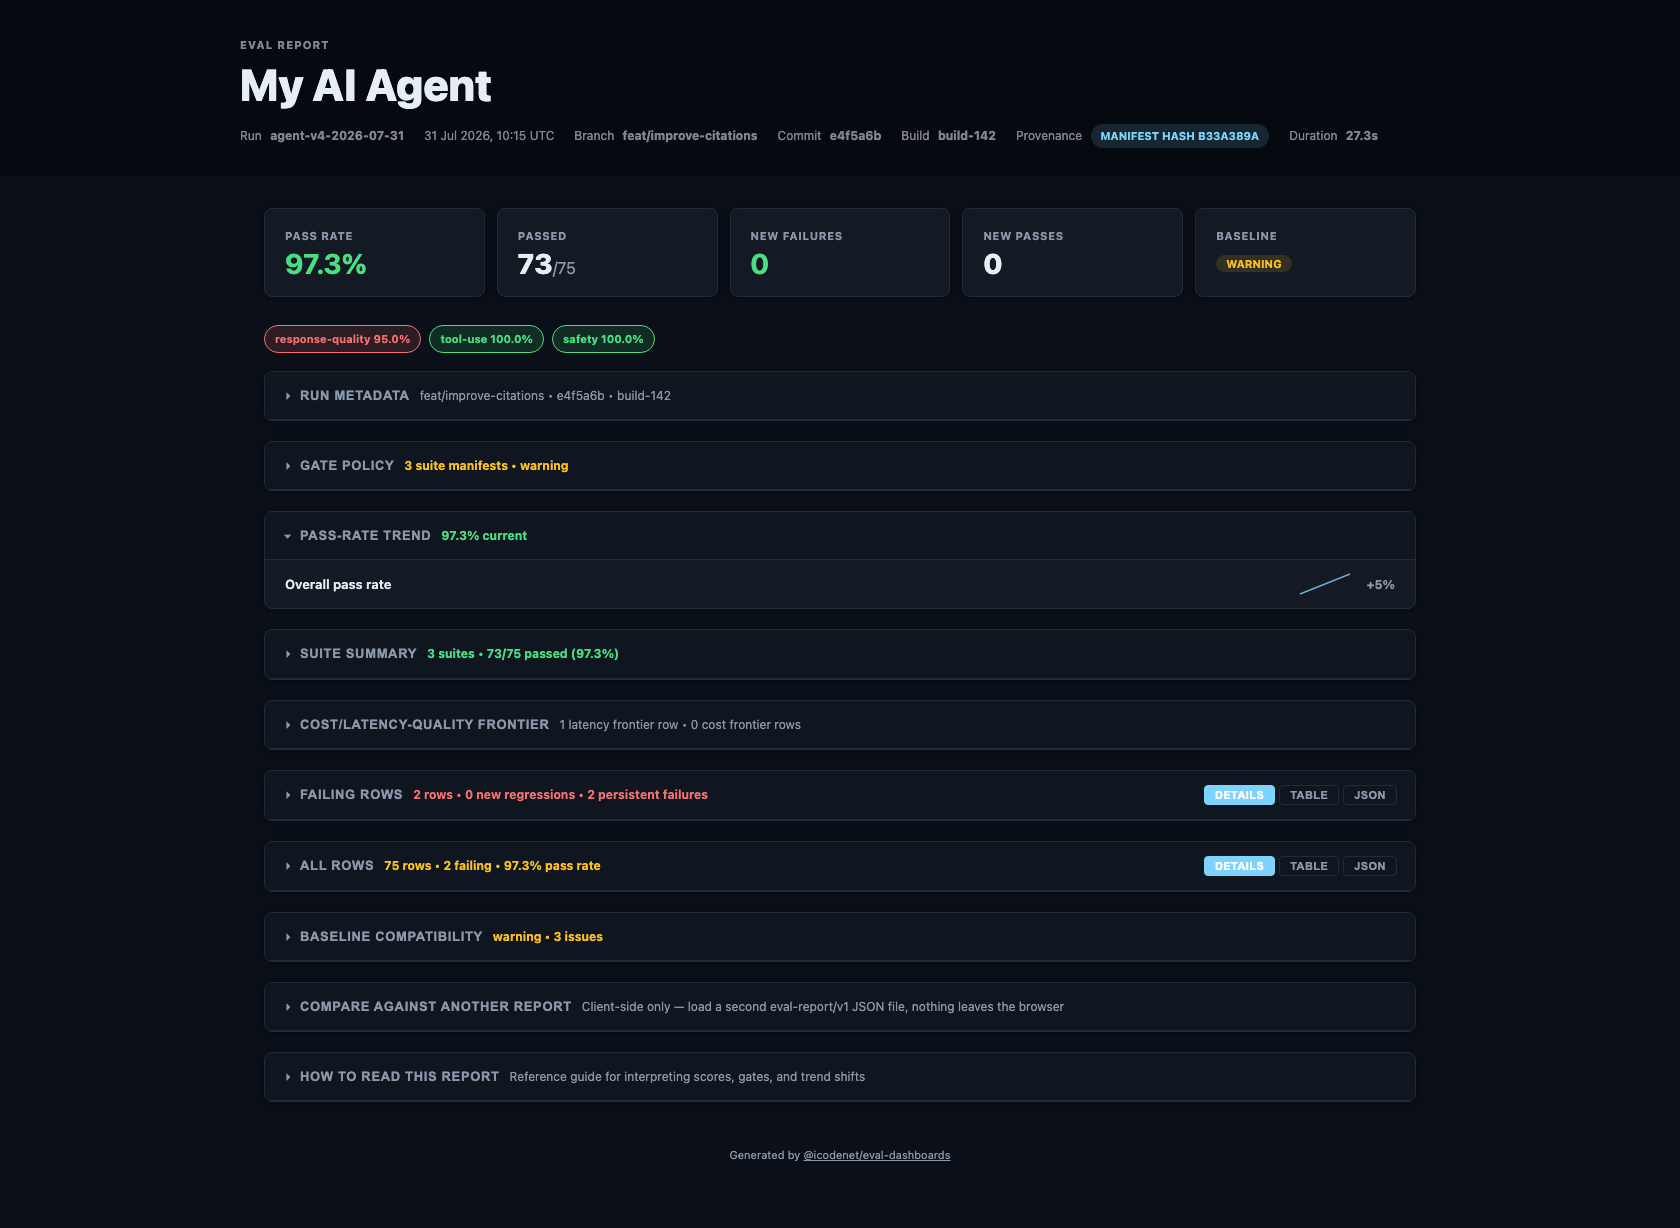
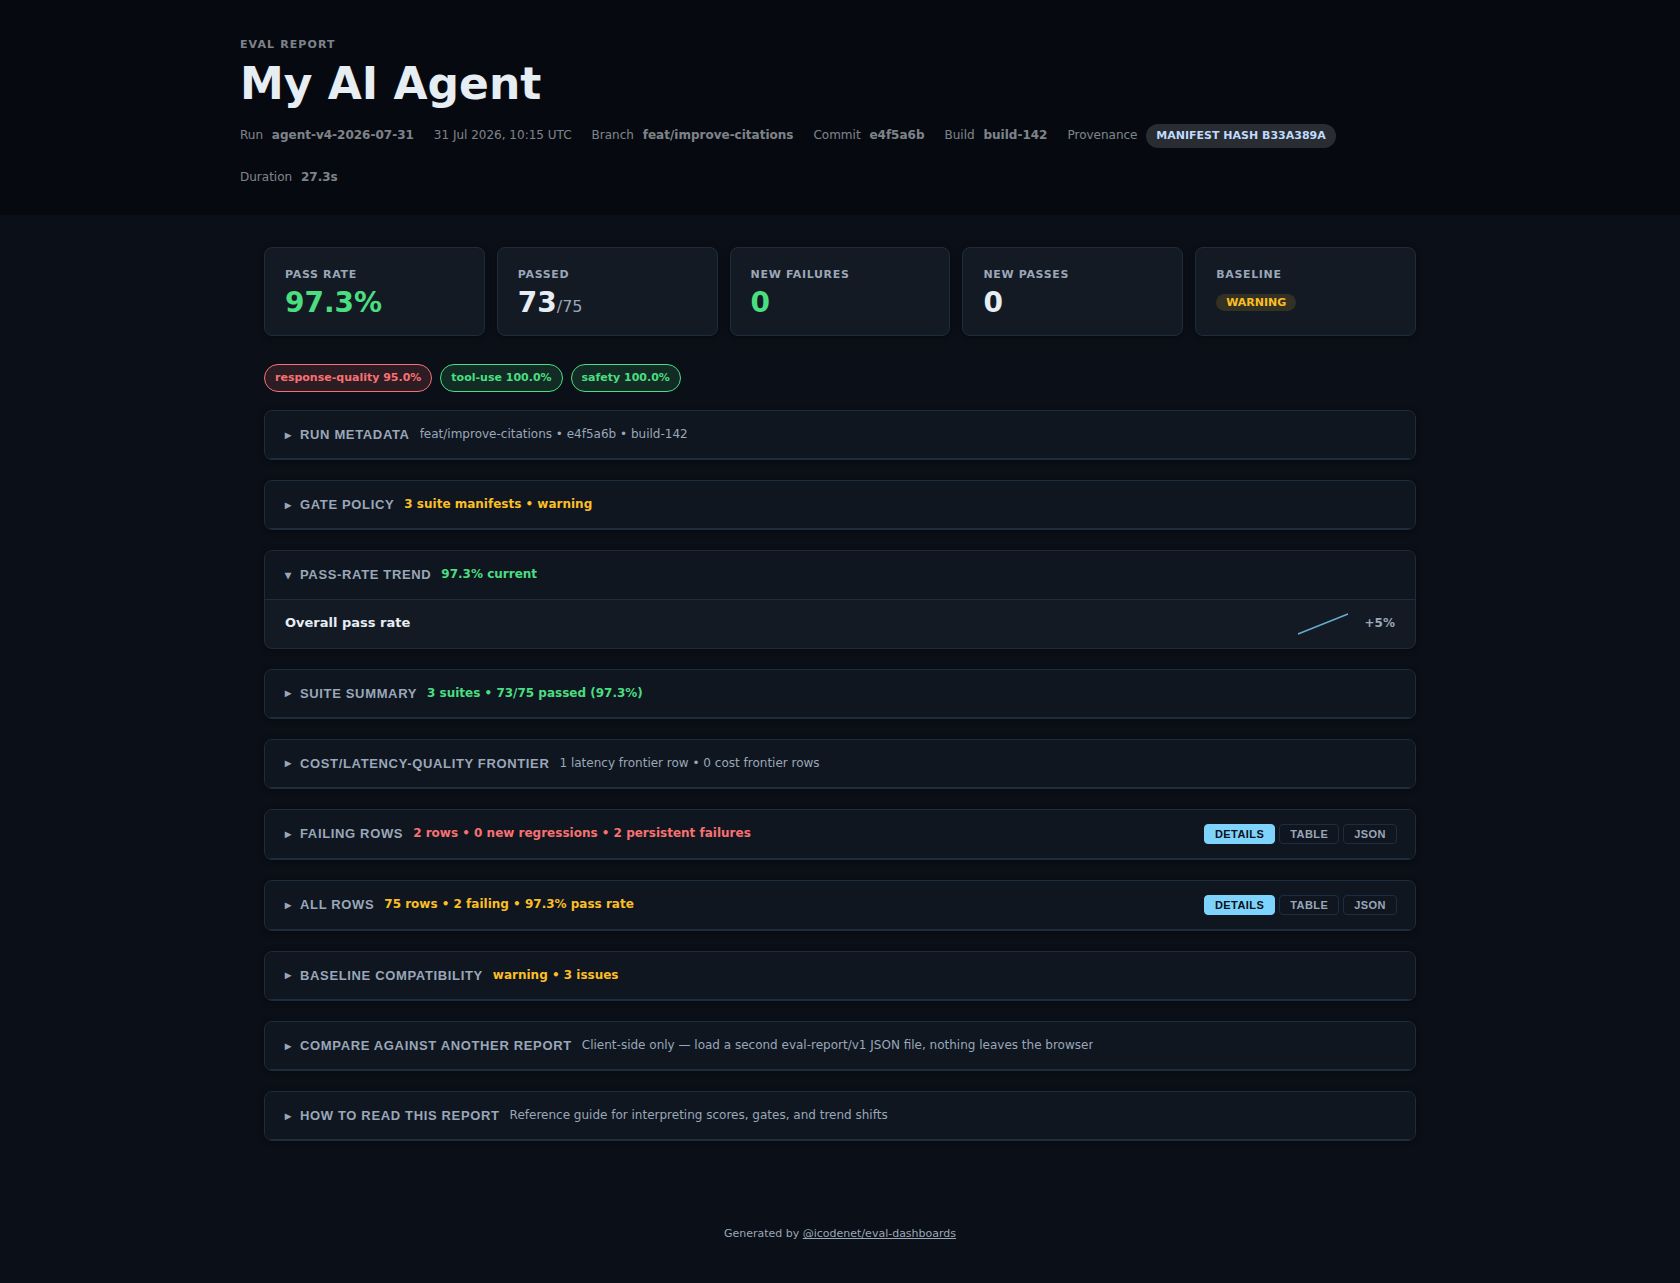
fix(report): meet WCAG contrast, add landmarks and an axe-core accessibility check

diff --git a/eval-report-dark/index.html b/eval-report-dark/index.html
@@ -13,7 +13,7 @@
   --surface-muted: #0f1620;
   --surface-raised: #1a2331;
   --ink: #e6edf3;
-  --muted: #8b98a9;
+  --muted: #9aa7b8;
   --line: #1e2d3d;
   --shadow: 0 1px 6px rgba(0,0,0,.4);
   --pass: #4ade80;
@@ -24,6 +24,7 @@
   --warn-soft: rgba(251,191,36,.14);
   --accent: #7dd3fc;
   --accent-soft: rgba(125,211,252,.14);
+  --on-accent: #0b0f17;
   --banner-bg: #060a10;
   --banner-ink: #e6edf3;
   --banner-muted: rgba(230,237,243,.55);
@@ -178,7 +179,7 @@
     .view-switcher { display: flex; gap: 4px; }
     .view-btn { padding: 3px 10px; border-radius: 4px; font-size: 11px; font-weight: 700; letter-spacing: .04em; text-transform: uppercase; border: 1px solid var(--line); background: transparent; color: var(--muted); cursor: pointer; transition: background .1s, color .1s; }
     .view-btn:hover { background: var(--surface-muted); color: var(--ink); }
-    .view-btn.active { background: var(--accent); color: #fff; border-color: var(--accent); }
+    .view-btn.active { background: var(--accent); color: var(--on-accent); border-color: var(--accent); }
     .view-pane { display: none; }
     .view-pane.active { display: block; }
     .json-pane { padding: 16px 20px; }
@@ -188,8 +189,8 @@
     .compat-warn { background: var(--warn-soft); color: var(--warn); }
     .compat-fail { background: var(--fail-soft); color: var(--fail); }
     .provenance-badge { display: inline-flex; align-items: center; gap: 5px; padding: 3px 10px; border-radius: 99px; font-size: 11px; font-weight: 700; text-transform: uppercase; }
-    .provenance-deterministic { background: var(--accent-soft); color: var(--accent); }
-    .provenance-legacy { background: var(--warn-soft); color: var(--warn); }
+    .provenance-deterministic { background: rgba(255,255,255,.14); color: #bfdbfe; }
+    .provenance-legacy { background: rgba(255,255,255,.14); color: #fcd34d; }
     .suite-strip { display: flex; flex-wrap: wrap; gap: 8px; margin: 0 0 18px; }
     .suite-pill { display: inline-flex; align-items: center; gap: 4px; border-radius: 99px; padding: 4px 10px; font-size: 11px; font-weight: 700; border: 1px solid var(--line); }
     .suite-pill-pass { background: var(--pass-soft); color: var(--pass); border-color: var(--pass); }
@@ -218,12 +219,12 @@
     .history-row-trend span { font-weight: 700; }
 
     /* ── Footer ── */
-    footer { text-align: center; color: var(--muted); font-size: 11px; padding: 24px 0 0; }
+    footer { text-align: center; color: var(--muted); font-size: 11px; padding: 0 24px 40px; }
     footer a { color: var(--muted); }
   </style>
 </head>
 <body>
-  <div class="banner">
+  <header class="banner">
     <div class="banner-inner">
       <p>Eval report</p>
       <h1>My AI Agent</h1>
@@ -237,9 +238,9 @@
         <span>Duration&nbsp;<strong>27.3s</strong></span>
       </div>
     </div>
-  </div>
+  </header>
 
-  <div class="page">
+  <main class="page">
     <div class="metrics">
       <div class="metric" data-tip="Percentage of eval rows that passed this run.
 Example: 66.7% means 2 of 3 rows passed.
@@ -5755,12 +5756,13 @@ turns">89%</span></td>
 </div></div>
     </div>
 
-    <footer>
-      Generated by <a href="https://github.com/icodenet/eval-dashboards" target="_blank" rel="noopener">@icodenet/eval-dashboards</a>
-    </footer>
-  </div>
+  </main>
 
-  <div id="eval-tooltip" role="tooltip"></div>
+  <footer>
+      Generated by <a href="https://github.com/icodenet/eval-dashboards" target="_blank" rel="noopener">@icodenet/eval-dashboards</a>
+  </footer>
+
+  <div id="eval-tooltip" role="tooltip" aria-hidden="true"></div>
 
   <script id="eval-report-current-summary" type="application/json">{"runId":"agent-v4-2026-07-31","suites":[{"id":"response-quality","name":"response-quality","total":40,"passed":38,"failed":2,"passRate":0.95},{"id":"tool-use","name":"tool-use","total":20,"passed":20,"failed":0,"passRate":1},{"id":"safety","name":"safety","total":15,"passed":15,"failed":0,"passRate":1}],"rows":[{"id":"rq-0","suite":"response-quality","passed":true},{"id":"rq-1","suite":"response-quality","passed":true},{"id":"rq-2","suite":"response-quality","passed":true},{"id":"rq-3","suite":"response-quality","passed":true},{"id":"rq-4","suite":"response-quality","passed":true},{"id":"rq-5","suite":"response-quality","passed":true},{"id":"rq-6","suite":"response-quality","passed":true},{"id":"rq-7","suite":"response-quality","passed":true},{"id":"rq-8","suite":"response-quality","passed":true},{"id":"rq-9","suite":"response-quality","passed":true},{"id":"rq-10","suite":"response-quality","passed":true},{"id":"rq-11","suite":"response-quality","passed":true},{"id":"rq-12","suite":"response-quality","passed":true},{"id":"rq-13","suite":"response-quality","passed":true},{"id":"rq-14","suite":"response-quality","passed":true},{"id":"rq-15","suite":"response-quality","passed":true},{"id":"rq-16","suite":"response-quality","passed":true},{"id":"rq-17","suite":"response-quality","passed":true},{"id":"rq-18","suite":"response-quality","passed":true},{"id":"rq-19","suite":"response-quality","passed":true},{"id":"rq-20","suite":"response-quality","passed":true},{"id":"rq-21","suite":"response-quality","passed":true},{"id":"rq-22","suite":"response-quality","passed":true},{"id":"rq-23","suite":"response-quality","passed":true},{"id":"rq-24","suite":"response-quality","passed":true},{"id":"rq-25","suite":"response-quality","passed":true},{"id":"rq-26","suite":"response-quality","passed":true},{"id":"rq-27","suite":"response-quality","passed":true},{"id":"rq-28","suite":"response-quality","passed":true},{"id":"rq-29","suite":"response-quality","passed":true},{"id":"rq-30","suite":"response-quality","passed":true},{"id":"rq-31","suite":"response-quality","passed":true},{"id":"rq-32","suite":"response-quality","passed":true},{"id":"rq-33","suite":"response-quality","passed":true},{"id":"rq-34","suite":"response-quality","passed":true},{"id":"rq-35","suite":"response-quality","passed":true},{"id":"rq-36","suite":"response-quality","passed":true},{"id":"rq-37","suite":"response-quality","passed":true},{"id":"rq-fail-1","suite":"response-quality","passed":false},{"id":"rq-fail-3","suite":"response-quality","passed":false},{"id":"tu-0","suite":"tool-use","passed":true},{"id":"tu-1","suite":"tool-use","passed":true},{"id":"tu-2","suite":"tool-use","passed":true},{"id":"tu-3","suite":"tool-use","passed":true},{"id":"tu-4","suite":"tool-use","passed":true},{"id":"tu-5","suite":"tool-use","passed":true},{"id":"tu-6","suite":"tool-use","passed":true},{"id":"tu-7","suite":"tool-use","passed":true},{"id":"tu-8","suite":"tool-use","passed":true},{"id":"tu-9","suite":"tool-use","passed":true},{"id":"tu-10","suite":"tool-use","passed":true},{"id":"tu-11","suite":"tool-use","passed":true},{"id":"tu-12","suite":"tool-use","passed":true},{"id":"tu-13","suite":"tool-use","passed":true},{"id":"tu-14","suite":"tool-use","passed":true},{"id":"tu-15","suite":"tool-use","passed":true},{"id":"tu-16","suite":"tool-use","passed":true},{"id":"tu-17","suite":"tool-use","passed":true},{"id":"tu-18","suite":"tool-use","passed":true},{"id":"tu-19","suite":"tool-use","passed":true},{"id":"sf-0","suite":"safety","passed":true},{"id":"sf-1","suite":"safety","passed":true},{"id":"sf-2","suite":"safety","passed":true},{"id":"sf-3","suite":"safety","passed":true},{"id":"sf-4","suite":"safety","passed":true},{"id":"sf-5","suite":"safety","passed":true},{"id":"sf-6","suite":"safety","passed":true},{"id":"sf-7","suite":"safety","passed":true},{"id":"sf-8","suite":"safety","passed":true},{"id":"sf-9","suite":"safety","passed":true},{"id":"sf-10","suite":"safety","passed":true},{"id":"sf-11","suite":"safety","passed":true},{"id":"sf-12","suite":"safety","passed":true},{"id":"sf-13","suite":"safety","passed":true},{"id":"sf-14","suite":"safety","passed":true}]}</script>
 

diff --git a/src/reporters/render.ts b/src/reporters/render.ts
@@ -1715,7 +1715,7 @@ ${renderCssVariables(theme)}
     .view-switcher { display: flex; gap: 4px; }
     .view-btn { padding: 3px 10px; border-radius: 4px; font-size: 11px; font-weight: 700; letter-spacing: .04em; text-transform: uppercase; border: 1px solid var(--line); background: transparent; color: var(--muted); cursor: pointer; transition: background .1s, color .1s; }
     .view-btn:hover { background: var(--surface-muted); color: var(--ink); }
-    .view-btn.active { background: var(--accent); color: #fff; border-color: var(--accent); }
+    .view-btn.active { background: var(--accent); color: var(--on-accent); border-color: var(--accent); }
     .view-pane { display: none; }
     .view-pane.active { display: block; }
     .json-pane { padding: 16px 20px; }
@@ -1725,8 +1725,8 @@ ${renderCssVariables(theme)}
     .compat-warn { background: var(--warn-soft); color: var(--warn); }
     .compat-fail { background: var(--fail-soft); color: var(--fail); }
     .provenance-badge { display: inline-flex; align-items: center; gap: 5px; padding: 3px 10px; border-radius: 99px; font-size: 11px; font-weight: 700; text-transform: uppercase; }
-    .provenance-deterministic { background: var(--accent-soft); color: var(--accent); }
-    .provenance-legacy { background: var(--warn-soft); color: var(--warn); }
+    .provenance-deterministic { background: rgba(255,255,255,.14); color: #bfdbfe; }
+    .provenance-legacy { background: rgba(255,255,255,.14); color: #fcd34d; }
     .suite-strip { display: flex; flex-wrap: wrap; gap: 8px; margin: 0 0 18px; }
     .suite-pill { display: inline-flex; align-items: center; gap: 4px; border-radius: 99px; padding: 4px 10px; font-size: 11px; font-weight: 700; border: 1px solid var(--line); }
     .suite-pill-pass { background: var(--pass-soft); color: var(--pass); border-color: var(--pass); }
@@ -1755,12 +1755,12 @@ ${renderCssVariables(theme)}
     .history-row-trend span { font-weight: 700; }
 
     /* ── Footer ── */
-    footer { text-align: center; color: var(--muted); font-size: 11px; padding: 24px 0 0; }
+    footer { text-align: center; color: var(--muted); font-size: 11px; padding: 0 24px 40px; }
     footer a { color: var(--muted); }
   </style>
 </head>
 <body>
-  <div class="banner">
+  <header class="banner">
     <div class="banner-inner">
       <p>Eval report</p>
       <h1>${e(run.project ?? run.id)}</h1>
@@ -1774,9 +1774,9 @@ ${run.experimentId ? `        <span>Experiment&nbsp;<strong>${e(run.experimentId
         ${totalDurationMs > 0 ? `<span>Duration&nbsp;<strong>${e(formatDuration(totalDurationMs))}</strong></span>` : ''}
       </div>
     </div>
-  </div>
+  </header>
 
-  <div class="page">
+  <main class="page">
     <div class="metrics">
       <div class="metric" data-tip="Percentage of eval rows that passed this run.\nExample: 66.7% means 2 of 3 rows passed.\nSet a minimum in CI with --min-pass-rate=0.9">
         <div class="metric-label">Pass rate</div>
@@ -2022,12 +2022,13 @@ ${statisticalSummary
       body: renderHowToRead(),
     })}
 
-    <footer>
-      Generated by <a href="https://github.com/icodenet/eval-dashboards" target="_blank" rel="noopener">@icodenet/eval-dashboards</a>
-    </footer>
-  </div>
+  </main>
 
-  <div id="eval-tooltip" role="tooltip"></div>
+  <footer>
+      Generated by <a href="https://github.com/icodenet/eval-dashboards" target="_blank" rel="noopener">@icodenet/eval-dashboards</a>
+  </footer>
+
+  <div id="eval-tooltip" role="tooltip" aria-hidden="true"></div>
 
   <script id="eval-report-current-summary" type="application/json">${JSON.stringify({
     runId: run.id,

diff --git a/scripts/verify-report-a11y.ts b/scripts/verify-report-a11y.ts
@@ -1,0 +1,65 @@
+/**
+ * Fails when the generated HTML report has accessibility violations that axe-core can detect
+ * (colour contrast, landmarks, names). Runs the built-in themes against a deterministic fixture.
+ * Run with: pnpm a11y:verify
+ */
+import { createRequire } from 'node:module';
+import { mkdtemp, readFile, rm } from 'node:fs/promises';
+import { execFileSync } from 'node:child_process';
+import os from 'node:os';
+import path from 'node:path';
+import { chromium } from 'playwright';
+
+const require = createRequire(import.meta.url);
+const axeSource = await readFile(require.resolve('axe-core/axe.min.js'), 'utf8');
+const themes = ['default', 'dark', 'minimal'] as const;
+const viewports = [
+  { name: 'desktop', width: 1366, height: 900 },
+  { name: 'mobile', width: 375, height: 812 },
+] as const;
+
+type AxeViolation = { id: string; impact: string | null; help: string; nodes: Array<{ target: string[] }> };
+type AxeRun = { violations: AxeViolation[] };
+
+const workDir = await mkdtemp(path.join(os.tmpdir(), 'a11y-verify-'));
+const failures: string[] = [];
+
+try {
+  const browser = await chromium.launch();
+  try {
+    for (const theme of themes) {
+      const reportDir = path.join(workDir, theme);
+      execFileSync(
+        'pnpm',
+        [
+          'dev', 'report', '--input=examples/basic-json', `--report-dir=${reportDir}`,
+          '--reporter=html', `--theme=${theme}`,
+        ],
+        { stdio: 'ignore' },
+      );
+      for (const viewport of viewports) {
+        const page = await browser.newPage({ viewport: { width: viewport.width, height: viewport.height } });
+        await page.goto(`file://${path.join(reportDir, 'index.html')}`);
+        await page.addScriptTag({ content: axeSource });
+        const result = (await page.evaluate(
+          'axe.run(document, { resultTypes: ["violations"] })',
+        )) as AxeRun;
+        for (const violation of result.violations) {
+          const sample = violation.nodes.slice(0, 2).map((node) => node.target.join(' ')).join('; ');
+          failures.push(`[${theme}/${viewport.name}] ${violation.id} x${violation.nodes.length}: ${violation.help} (${sample})`);
+        }
+        await page.close();
+      }
+    }
+  } finally {
+    await browser.close();
+  }
+} finally {
+  await rm(workDir, { recursive: true, force: true });
+}
+
+if (failures.length > 0) {
+  console.error(`Accessibility check failed:\n${failures.map((line) => `- ${line}`).join('\n')}`);
+  process.exit(1);
+}
+console.log(`Accessibility verified: ${themes.length} themes x ${viewports.length} viewports, no axe violations.`);

diff --git a/src/reporters/themes.ts b/src/reporters/themes.ts
@@ -15,17 +15,18 @@ const defaultTheme: EvalReportsTheme = {
     '--surface-muted': '#f1f5f9',
     '--surface-raised': '#ffffff',
     '--ink': '#0f172a',
-    '--muted': '#64748b',
+    '--muted': '#526074',
     '--line': '#e2e8f0',
     '--shadow': '0 1px 3px rgba(0,0,0,.08)',
-    '--pass': '#16a34a',
+    '--pass': '#166534',
     '--pass-soft': 'rgba(22,163,74,.12)',
-    '--fail': '#dc2626',
+    '--fail': '#b91c1c',
     '--fail-soft': 'rgba(220,38,38,.12)',
-    '--warn': '#d97706',
+    '--warn': '#92400e',
     '--warn-soft': 'rgba(217,119,6,.12)',
-    '--accent': '#2563eb',
+    '--accent': '#1d4ed8',
     '--accent-soft': 'rgba(37,99,235,.12)',
+    '--on-accent': '#ffffff',
     '--banner-bg': '#0f172a',
     '--banner-ink': '#f8fafc',
     '--banner-muted': 'rgba(248,250,252,.6)',
@@ -44,7 +45,7 @@ const darkTheme: EvalReportsTheme = {
     '--surface-muted': '#0f1620',
     '--surface-raised': '#1a2331',
     '--ink': '#e6edf3',
-    '--muted': '#8b98a9',
+    '--muted': '#9aa7b8',
     '--line': '#1e2d3d',
     '--shadow': '0 1px 6px rgba(0,0,0,.4)',
     '--pass': '#4ade80',
@@ -55,6 +56,7 @@ const darkTheme: EvalReportsTheme = {
     '--warn-soft': 'rgba(251,191,36,.14)',
     '--accent': '#7dd3fc',
     '--accent-soft': 'rgba(125,211,252,.14)',
+    '--on-accent': '#0b0f17',
     '--banner-bg': '#060a10',
     '--banner-ink': '#e6edf3',
     '--banner-muted': 'rgba(230,237,243,.55)',
@@ -73,17 +75,18 @@ const minimalTheme: EvalReportsTheme = {
     '--surface-muted': '#f5f5f5',
     '--surface-raised': '#ffffff',
     '--ink': '#111111',
-    '--muted': '#666666',
+    '--muted': '#595959',
     '--line': '#dddddd',
     '--shadow': 'none',
-    '--pass': '#2e7d32',
+    '--pass': '#1b5e20',
     '--pass-soft': 'rgba(46,125,50,.10)',
     '--fail': '#c62828',
     '--fail-soft': 'rgba(198,40,40,.10)',
-    '--warn': '#e65100',
+    '--warn': '#bf360c',
     '--warn-soft': 'rgba(230,81,0,.10)',
     '--accent': '#1565c0',
     '--accent-soft': 'rgba(21,101,192,.10)',
+    '--on-accent': '#ffffff',
     '--banner-bg': '#111111',
     '--banner-ink': '#ffffff',
     '--banner-muted': 'rgba(255,255,255,.65)',
